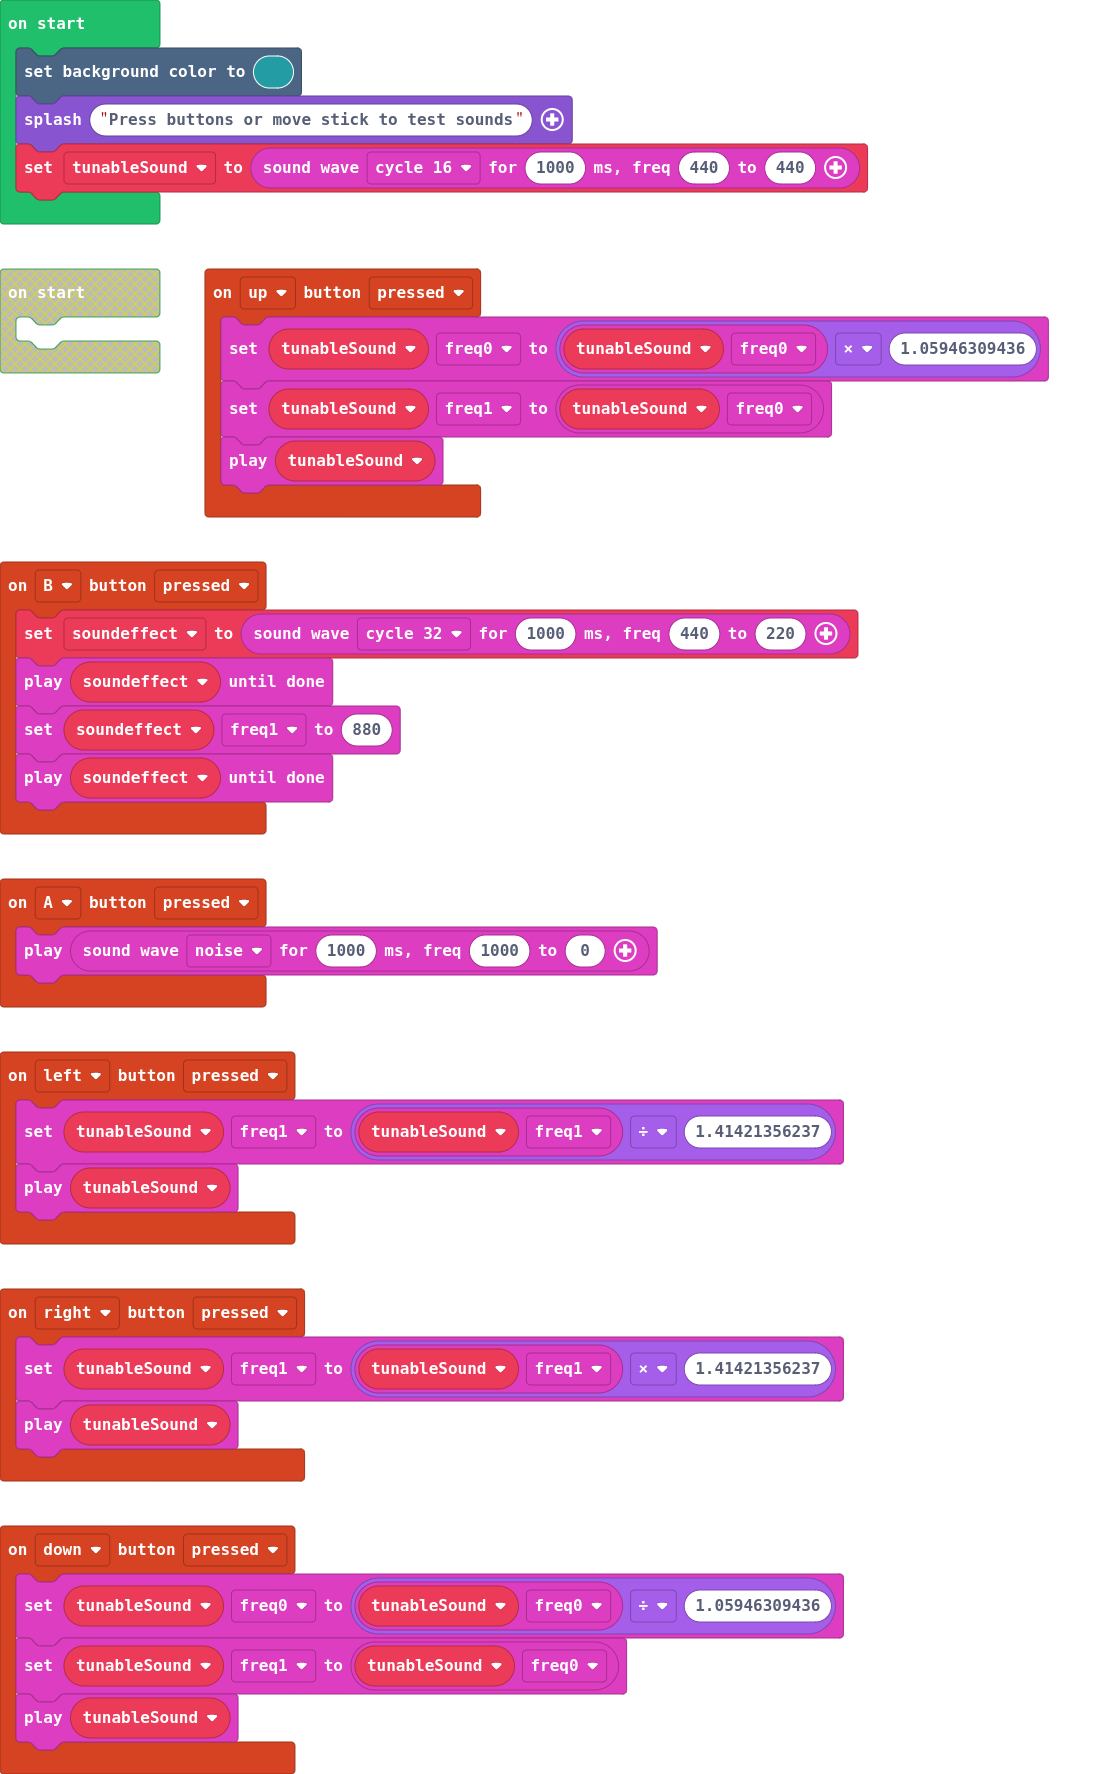
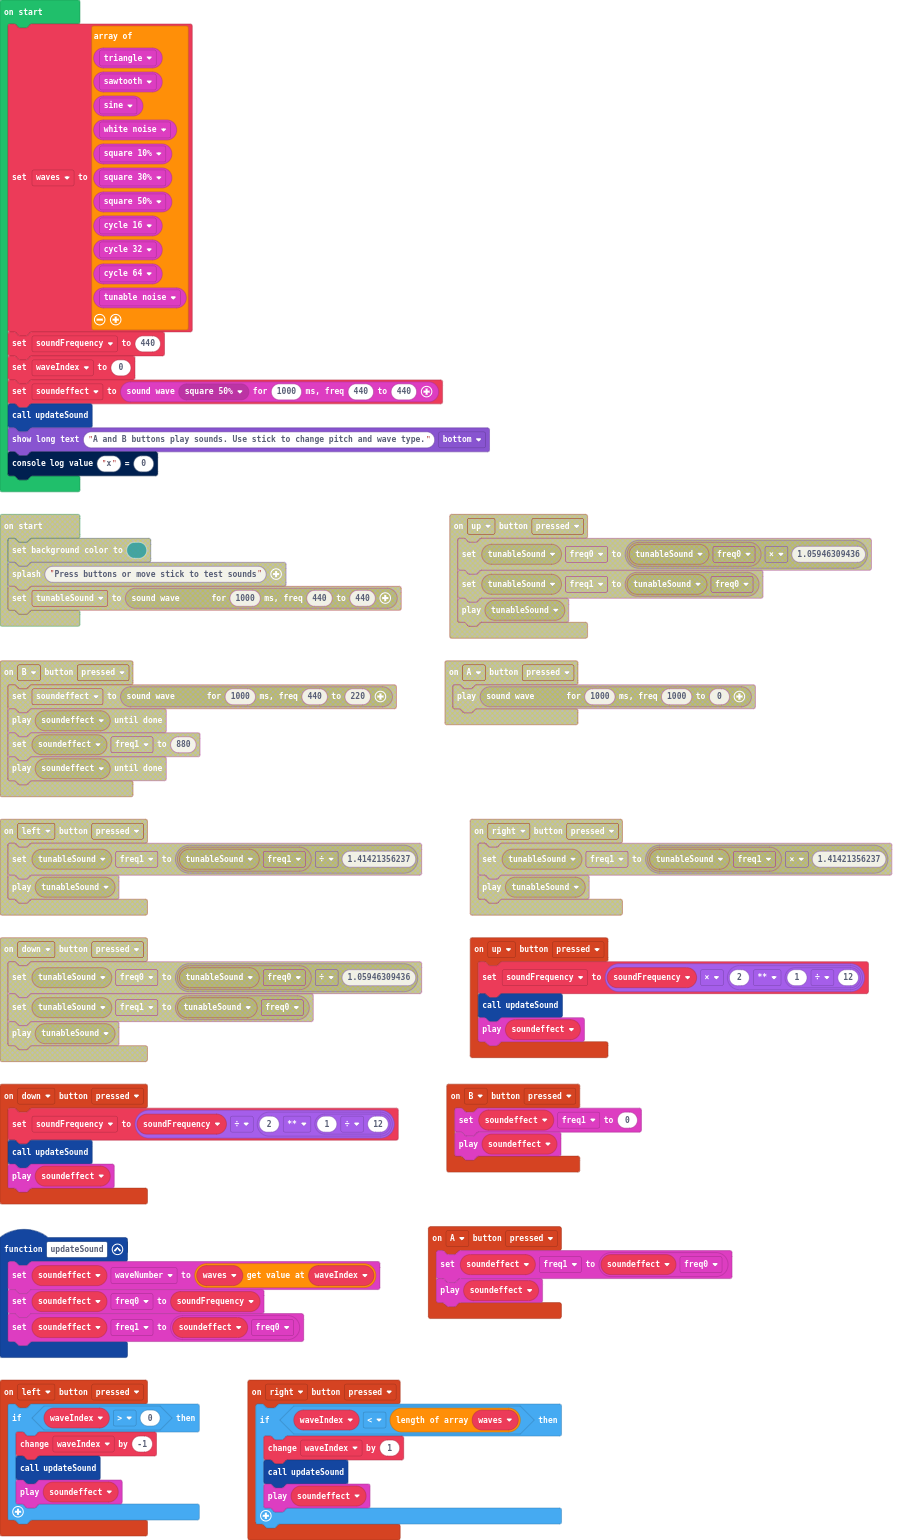
Update API to use numbers for waves

diff --git a/soundeffects.ts b/soundeffects.ts
@@ -2,14 +2,15 @@ namespace music {
     //% shim=music::queuePlayInstructions
     export function playInstructions(timeDelta: number, buf: Buffer) { }
 }
-
-enum WaveType {
+const enum WaveType {
     //% block="triangle"
     Triangle = 1,
     //% block="sawtooth"
     Sawtooth = 2,
     //% block="sine"
     Sine = 3,
+    //% block="white noise"
+    WhiteNoise = 5,
     //% block="square 10%"
     Square10 = 11,
     //% block="square 20%"
@@ -26,8 +27,8 @@ enum WaveType {
     Cycle32 = 17,
     //% block="cycle 64"
     Cycle64 = 18,
-    //% block="noise"
-    Noise = 4,
+    //% block="tunable noise"
+    TunableNoise = 4,
 }
 
 //% blockNamespace=soundEffects
@@ -65,13 +66,12 @@ class SoundBuffer {
 
     //% blockSetVariable="soundeffect"
     //% blockCombine
-    get wave() { return this._buf.getNumber(NumberFormat.UInt16LE, 0); }
-    //% blockSetVariable="soundeffect"
-    //% blockCombine
     set wave(v: WaveType) { this._buf.setNumber(NumberFormat.UInt16LE, 0, v); }
-
     //% blockSetVariable="soundeffect"
     //% blockCombine
+    get wave(): WaveType { return this._buf.getNumber(NumberFormat.UInt16LE, 0); }
+    //% blockSetVariable="soundeffect"
+    //% blockCombine weight=60
     get duration() { return this._buf.getNumber(NumberFormat.UInt16LE, 4); }
     //% blockSetVariable="soundeffect"
     //% blockCombine
@@ -100,6 +100,12 @@ class SoundBuffer {
     //% blockSetVariable="soundeffect"
     //% blockCombine
     set vol1(v: number) { this._buf.setNumber(NumberFormat.UInt16LE, 8, v); }
+    //% blockSetVariable="soundeffect"
+    //% blockCombine weight=10
+    get waveNumber() { return this._buf.getNumber(NumberFormat.UInt16LE, 0); }
+    //% blockSetVariable="soundeffect"
+    //% blockCombine weight=10
+    set waveNumber(v: number) { this._buf.setNumber(NumberFormat.UInt16LE, 0, v); }
 }
 
 /**
@@ -109,19 +115,24 @@ class SoundBuffer {
 namespace soundEffects {
     /**
      * Creates a sound effect.
-     * @param wave wave form for the effect; eg: WaveType.Noise
+     * @param wave wave form for the effect; eg: WaveType.Square50
      * @param duration [0-99999] sound duration in milliseconds; eg: 1000
      * @param f0 [1-20000] starting frequency in Hz (cycles/second); eg: 440
      * @param f1 [1-20000] ending frequency in Hz; eg: 440
      * @param v0 [0-1023] starting volume; eg: 255
      * @param v1 [0-1023] ending volume; eg: 0
      */
-    //% blockId="create_sound" block="sound wave %wave for %duration ms, freq %f0 to %f1||, vol %v0 to %v1"
+    //% blockId="create_sound" block="sound wave %wave=waveNumber for %duration ms, freq %f0 to %f1||, vol %v0 to %v1"
     //% inlineInputMode=inline
     //% expandableArgumentMode="toggle"
     //% blockSetVariable=soundeffect
     //% weight=90
-    export function createSound(wave: WaveType, duration: number, f0: number, f1: number, v0: number=255, v1: number=0): SoundBuffer {
+    export function createSound(wave: number, duration: number, f0: number, f1: number, v0: number=255, v1: number=0): SoundBuffer {
         return new SoundBuffer(wave, duration, f0, f1, v0, v1);
+    }
+
+    //% blockId="waveNumber" block="%wave"
+    export function waveNumber(wave: WaveType): number {
+        return wave;
     }
 }

diff --git a/tilemap.g.ts b/tilemap.g.ts
@@ -1,0 +1,7 @@
+// Auto-generated code. Do not edit.
+namespace myTiles {
+    //% fixedInstance jres blockIdentity=images._tile
+    export const transparency16 = image.ofBuffer(hex``);
+
+}
+// Auto-generated code. Do not edit.
